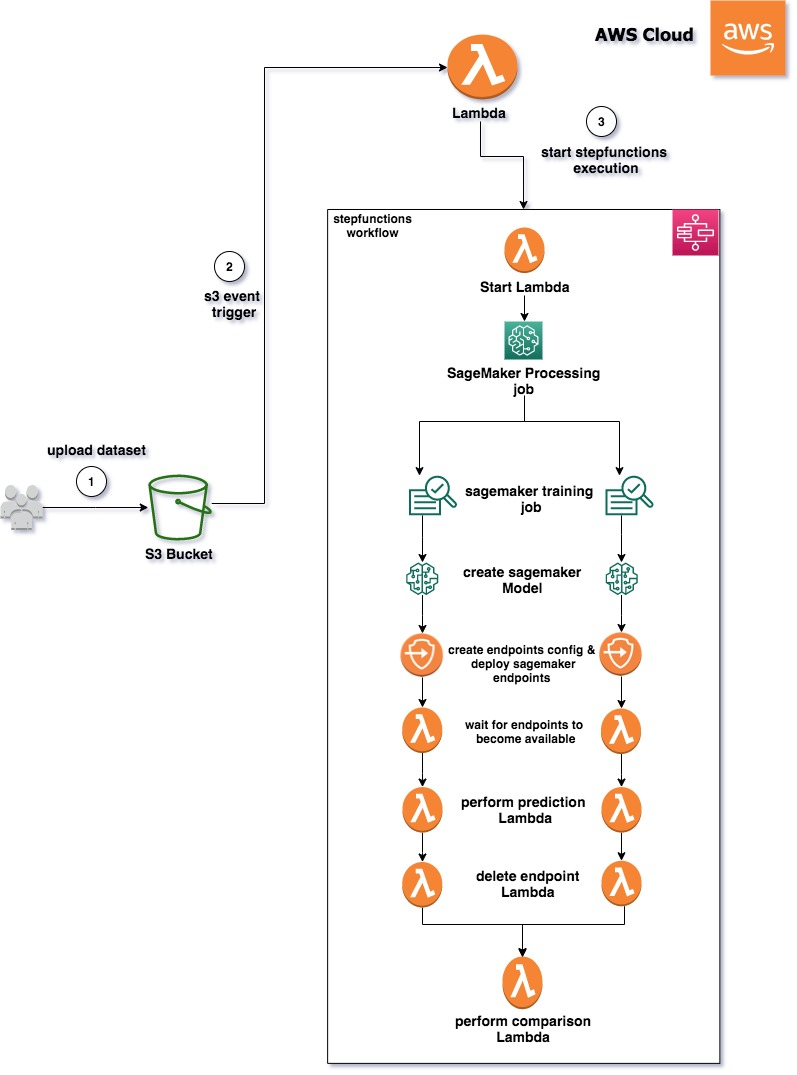
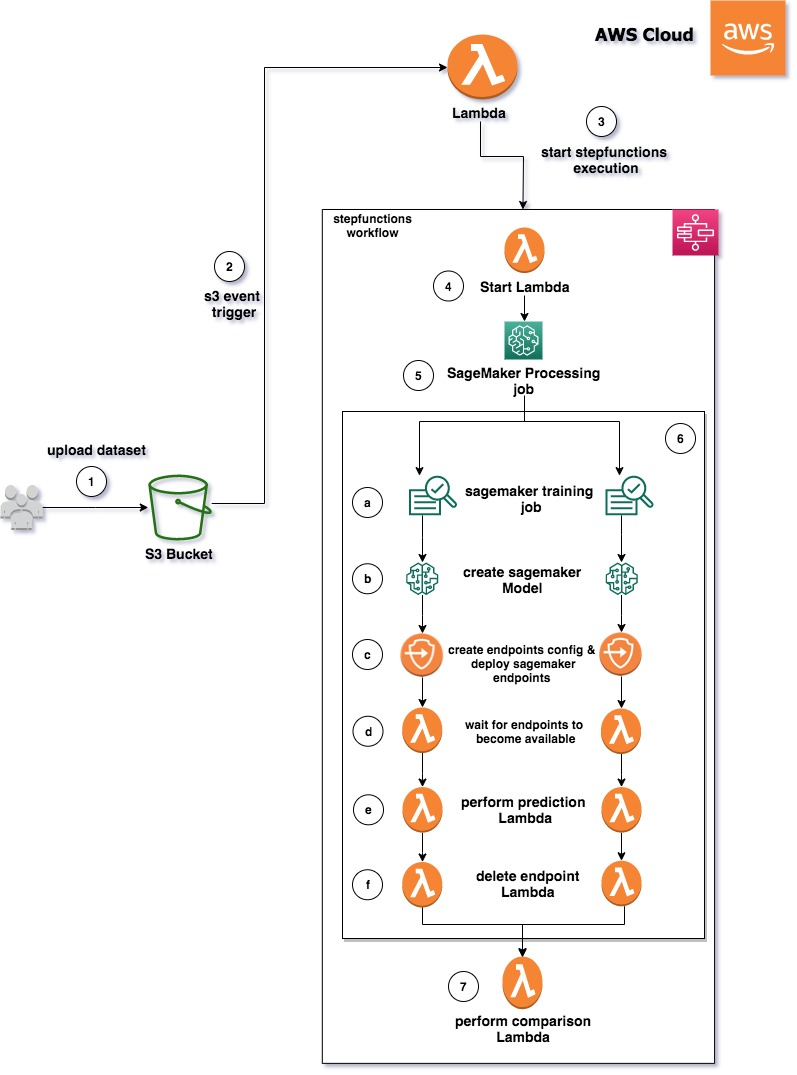
update readme documentation

diff --git a/README.md b/README.md
@@ -87,9 +87,9 @@ python3 scripts/download_and_divide.py
 ---
 ## Starting the execution
 
-1. Now that we have the infrastructure setup and datasets ready, let's start the execution and explore what the solution is performing.
+Now that we have the infrastructure setup and datasets ready, let's start the execution and explore what the solution is performing.
 
-We start by uploading the the first half of the data set named "dataset1.csv" to the bucket named "abalone-blog-*< ACCOUNT_ID>-\<REGION>*" to "/*Inputs*" folder.
+1. We start by uploading the the first half of the data set named "dataset1.csv" to the bucket named "abalone-blog-*< ACCOUNT_ID>-\<REGION>*" to "/*Inputs*" folder.
 
 ![Inputs Folder](./images/upload-dataset-Inputs-folder.jpg)
 
@@ -105,26 +105,29 @@ The solution uses a completely serverless environment so you don’t have to wor
 
 ![Solution Architecture](./images/solution-architecture-shadow.jpg)<br/><br/>
 
+1.	The dataset is uploaded to the Amazon S3 cloud storage under the /Inputs directory (prefix).
 
 2. Once the dataset is uploaded to the Inputs folder using [s3 event notification](https://docs.aws.amazon.com/lambda/latest/dg/with-s3.html) it initiate the MLOps pipeline built using a Step Functions state machine.<br/><br/>
 
+3.	The Lambda function then will initiate the MLOps pipeline built using a Step Functions state machine.
 
-3. The starting lambda will start by collecting the region corresponding [training images URIs](https://docs.aws.amazon.com/sagemaker/latest/dg/sagemaker-algo-docker-registry-paths.html) for both Linear Learner and XGBoost algorithms which will be used in training both algorithms over the dataset. It will also get the [Amazon SageMaker Spark Container Image](https://github.com/aws/sagemaker-spark-container/blob/master/available_images.md) which will be used for running the SageMaker processing Job.<br/><br/>
+4. The starting lambda will start by collecting the region corresponding [training images URIs](https://docs.aws.amazon.com/sagemaker/latest/dg/sagemaker-algo-docker-registry-paths.html) for both Linear Learner and XGBoost algorithms which will be used in training both algorithms over the dataset. It will also get the [Amazon SageMaker Spark Container Image](https://github.com/aws/sagemaker-spark-container/blob/master/available_images.md) which will be used for running the SageMaker processing Job.<br/><br/>
 
-4. The dataset is in libsvm format which is accepted by the XGBoost algorithm as per the [Input/Output Interface for the XGBoost Algorithm](https://docs.aws.amazon.com/sagemaker/latest/dg/xgboost.html#InputOutput-XGBoost). However, this is not supported by the Linear Learner Algorithm as per [Input/Output interface for the linear learner algorithm](https://docs.aws.amazon.com/sagemaker/latest/dg/linear-learner.html#ll-input_output). So we need to run a processing job using [Amazon SageMaker Data Processing with Apache Spark](https://docs.aws.amazon.com/sagemaker/latest/dg/use-spark-processing-container.html). The processing job will transform the data from libsvm to csv and will divide the dataset into train, validation and test datasets. The output of the processing job will be stored under "/*Xgboost*" and "/*Linear*" directories (prefixes).<br/><br/>
+5. The dataset is in libsvm format which is accepted by the XGBoost algorithm as per the [Input/Output Interface for the XGBoost Algorithm](https://docs.aws.amazon.com/sagemaker/latest/dg/xgboost.html#InputOutput-XGBoost). However, this is not supported by the Linear Learner Algorithm as per [Input/Output interface for the linear learner algorithm](https://docs.aws.amazon.com/sagemaker/latest/dg/linear-learner.html#ll-input_output). So we need to run a processing job using [Amazon SageMaker Data Processing with Apache Spark](https://docs.aws.amazon.com/sagemaker/latest/dg/use-spark-processing-container.html). The processing job will transform the data from libsvm to csv and will divide the dataset into train, validation and test datasets. The output of the processing job will be stored under "/*Xgboost*" and "/*Linear*" directories (prefixes).<br/><br/>
 
 ![datasets folder](./images/dataset-directories.jpg)<br/><br/>
 
 ![train validation test](./images/train-validation-test.jpg)<br/><br/>
 
-5. The workflow of Step Functions will perform the following steps in parallel
+6. The workflow of Step Functions will perform the following steps in parallel
     > A: Train both algorithms.<br/>
     > B: Create models out of trained algorithms.<br/>
     > C: Create endpoints configurations and deploy predictions endpoints for both models.<br/>
     > D: Invoke lambda function to describe the deployed endpoints and wait for the endpoints to become available.
     > E: Invoke lambda function to perform 3 live predictions using boto3 and the “test” sample taken from the dataset to calculate the average accuracy of each model.<br/>
     > F: Invoke lambda function to delete deployed endpoints not to incur any additional charges.<br/>
-    > G: Invoke Lambda function to determine which model is having better accuracy in predicting the values.
+
+7. Finally, a Lambda function will be invoked to determine which model is having better accuracy in predicting the values.
 <br/>
 
 The overall flow of step functions execution can be viewed by referring to the to the step functions definition graph below.<br/>
